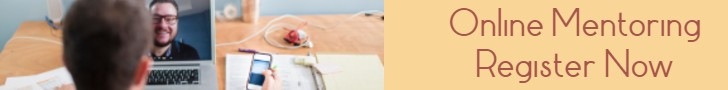
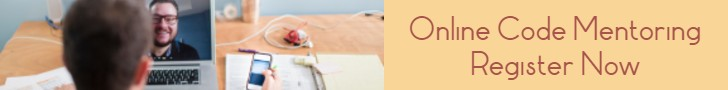
updated image ad

Changed region(s): [[0.544, 0.0889, 0.967, 0.5111], [0.6346, 0.5333, 0.9368, 0.9333]]

diff --git a/lessons/lesson3.md b/lessons/lesson3.md
@@ -363,10 +363,6 @@ Copy the 'pet component' and create containers for the other three pets as follo
 
 ****
 
-***
-[![ad](../img/online-mentoring.jpg)](https://rclapp.com/mentors.html)
-***
-
 <div id="disqus_thread"></div>
 <script>
 var disqus_config = function () {
